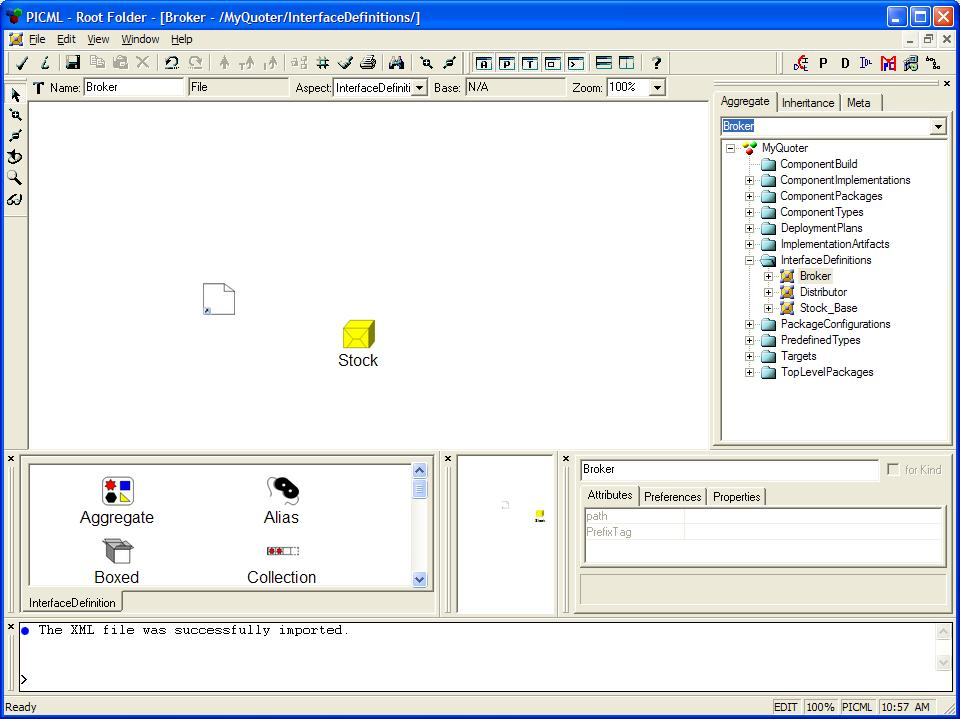
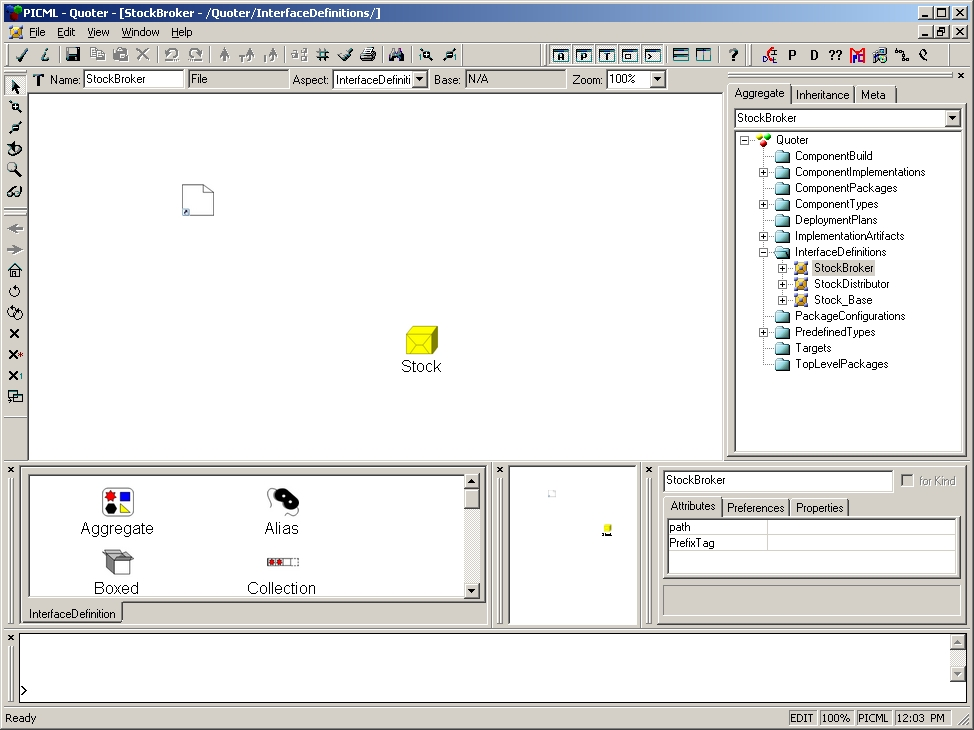
Thu Jun 18 06:48:05 UTC 2009  Marcel Smit  <msmit@remedy.nl>
* docs/tutorials/Quoter/Simple/03.html:

          Updated to meet the current status of CIAO/DAnCE.

        * docs/tutorials/Quoter/Simple/images/fig2.jpg:
        * docs/tutorials/Quoter/Simple/images/fig3.jpg:
        * docs/tutorials/Quoter/Simple/images/fig5.jpg:
        * docs/tutorials/Quoter/Simple/images/fig6.jpg:
        * docs/tutorials/Quoter/Simple/images/fig7.jpg:
        * docs/tutorials/Quoter/Simple/images/fig8.jpg:
        * docs/tutorials/Quoter/Simple/images/fig9.jpg:

          Updated to meet the current status of GME/COSMIC

diff --git a/modules/CIAO/docs/tutorials/Quoter/Simple/03.html b/modules/CIAO/docs/tutorials/Quoter/Simple/03.html
@@ -99,29 +99,29 @@ div.Section1 {
       .NET tools so that <i>idl_to_picml</i> works properly.<br>
       in my machine, VCVARS32.bat is in C:\Program Files\Microsoft Visual Studio .NET
       2003\Vc7\bin
-    <li style='COLOR:black;'> In the same command prompt, change directory to <code> <span style='FONT-SIZE:10pt'>MyQuoter\</span></code>, and type the
+    <li style='COLOR:black;'> In the same command prompt, change directory to <code> <span style='FONT-SIZE:10pt'>Quoter\</span></code>, and type the
       following command:<br>
-      &nbsp;&nbsp; &gt; <kbd> <span style='FONT-SIZE:10pt'> idl_to_picml -x MyQuoter -r .&nbsp;</span></kbd><br>
-      <em>idl_to_picml</em> will parse your IDL files and generated a <code> <span style='FONT-SIZE:10pt'>MyQuoter.xme</span></code> file in the <code> <span style='FONT-SIZE:10pt'>MyQuoter</span></code> directory. Note that if
+      &nbsp;&nbsp; &gt; <kbd> <span style='FONT-SIZE:10pt'> idl_to_picml -x Quoter -r .&nbsp;</span></kbd><br>
+      <em>idl_to_picml</em> will parse your IDL files and generated a <code> <span style='FONT-SIZE:10pt'>Quoter.xme</span></code> file in the <code> <span style='FONT-SIZE:10pt'>Quoter</span></code> directory. Note that if
       -x option is not used, the default xme file name will be <code> <span style='FONT-SIZE:10pt'>PICML_default_xme_file.xme.</span></code><br>
     <LI style="COLOR: black;    "> Start GME, select <strong>File-&gt;Import xml..</strong>, and choose the xme
       file just generated. You should be able to see an imported PICML model similar
       to the one shown in Figure 2. </LI>
   </ol>
-  <p align="center" style='TEXT-ALIGN:center'><span style='COLOR:black'><img border="0" width="960" height="719" id="_x0000_i1027" src="images/fig2.jpg"><br>
+  <p align="center" style='TEXT-ALIGN:center'><span style='COLOR:black'><img border="0" id="_x0000_i1027" src="images/fig2.jpg"><br>
     <br>
     Figure 2</span></p>
   <p><span style='COLOR:black'>&nbsp; In the Browser of the generated model, the <em>PredefinedTypes</em> folder contains a bunch of atomic datatype elements that will be referenced by
     other modeling parts later. You don't have to worry about them for now. The
     models in <em>InterfaceDefinitions</em> folder are the PICML representations
-    of the IDL files you just imported. Double-click to open <em>Broker</em>, it
+    of the IDL files you just imported. Double-click to open <em>StockBroker</em>, it
     will show you a white, document-like entity which represents a
     &lt;&lt;FileRef&gt;&gt; instance and a yellow box-shaped entity representing a
     &lt;&lt;Package&gt;&gt; instance. Their equivalent representations in IDL files
     are "#include" and "module" respectively. Figure 3 gives
     you a clear view of GME representation of all the 3 idl files created. We will
     cover the other folders in the next section.</span></p>
-  <p align="center" style='MARGIN-BOTTOM:12pt;TEXT-ALIGN:center'><span style='COLOR:black'><img border="0" width="218" height="364" id="_x0000_i1028" src="images/fig3.jpg"><br>
+  <p align="center" style='MARGIN-BOTTOM:12pt;TEXT-ALIGN:center'><span style='COLOR:black'><img border="1" id="_x0000_i1028" src="images/fig3.jpg"><br>
     <br>
     Figure 3</span></p>
   <p style='MARGIN-BOTTOM:12pt'><span style='COLOR:black'>Now
@@ -177,8 +177,8 @@ div.Section1 {
   <p><span style='COLOR:black'>This folder contains implementation artifacts
     associated with components. <em>idl_to_picml</em> has created these artifacts
     for us, with their dependency relationships correctly captured. Figure 4 shows
-    the Implementation Artifacts for <em>Broker</em>.</span></p>
-  <p align="center" style='MARGIN-BOTTOM:12pt;TEXT-ALIGN:center'><span style='COLOR:black'><img border="0" width="883" height="528" id="_x0000_i1031" src="images/fig4.jpg"><br>
+    the Implementation Artifacts for <em>StockBroker</em>.</span></p>
+  <p align="center" style='MARGIN-BOTTOM:12pt;TEXT-ALIGN:center'><span style='COLOR:black'><img border="0" id="_x0000_i1031" src="images/fig4.jpg"><br>
     Figure 4.</span></p>
   <div align="center" style='TEXT-ALIGN:center'><a name="1"></a><span style='COLOR:black'>
     <hr size="2" width="100%" align="center">
@@ -188,9 +188,9 @@ div.Section1 {
     of component interfaces. In the Quoter example, we will have two monolithic
     component implementations - named <em>StockDistributorImplementation</em> and <em>StockBrokerImplementation</em> - and an assembly component implementation named <em>StockQuoter</em>, which is
     an assembly of <em>StockDistributorImplementation</em> and <em>StockBrokerImplementaion</em>. <em>idl_to_picml</em> has created the monolithic component implementations for
-    us, as shown in figure 5 for example, but we have to specify the connections
-    between them in order to construct a Quoter system.</span></p>
-  <p align="center" style='TEXT-ALIGN:center'><span style='COLOR:black'><img border="0" width="894" height="617" id="_x0000_i1033" src="images/fig5.jpg"><br>
+    us, as shown in figure 5 for example, but we have to specify the connections between them in order to construct a Quoter system. Therefore we need to create the mentioned
+    StockQuoter component assemby</span></p>
+  <p align="center" style='TEXT-ALIGN:center'><span style='COLOR:black'><img border="0" id="_x0000_i1033" src="images/fig5.jpg"><br>
     Figure 5</span></p>
   <p><span style='COLOR:black'>Assembly components provide a boundary for the composition
     of monolithic components and even other assemblies. Assembly components do not
@@ -206,96 +206,101 @@ COLOR:black'>MonolithicImplementation</span></code><span style='COLOR:black'>.
     <li style='COLOR:black;'> Right click the <em>ComponentImplementations</em> folder, choose <strong>Insert
       Model-&gt;ComponentImplementationContainer</strong>, rename it as
       "StockQuoterImplementation" in the Attribute Panel. Double click to open it.
+    </li>
     <li style='COLOR:black;'> From the Part Browser, drag a &lt;&lt;ComponentAssembly&gt;&gt; to the modeling
       window, name it "StockQuoter". Double click to open it.
+    </li>
     <li style='COLOR:black;'> Now we will create two instances for interfaces <em>StockBroker</em> and <em>StockDistributor</em>.
       To do that, expand the folder <em> <span style="FONT-SIZE:10pt;
-     FONT-FAMILY:'Courier New'">InterfaceDefinitions</span></em>, then expand the <em> <span style="FONT-SIZE:10pt;FONT-FAMILY:'Courier New'">InterfaceDefinitions/</span></em> <em>Broker</em>, then <em> <span style="FONT-SIZE:10pt;FONT-FAMILY:'Courier New'">InterfaceDefinitions/</span></em> <em>Broker/ Stock</em> until the interface definition of <em>StockBroker</em> shows.
-      While expanding the tree, always keep the "StockQuoter"
-      &lt;&lt;ComponentAssembly&gt;&gt; window open. Then drag <code> <span style='FONT-SIZE:10pt'>MyQuoter/InterfaceDefinitions/Broker/Stock/StockBroker</span></code> in the browser to the "StockQuoter" &lt;&lt;ComponentAssembly&gt;&gt; window
-      while pressing ALT key. Repeat the same steps for <code> <span style='FONT-SIZE:10pt'>MyQuoter/InterfaceDefinitions/Distributor/Stock/StockDistributor</span></code>,
+     FONT-FAMILY:'Courier New'">InterfaceDefinitions</span></em>, then expand the
+     <em><span style="FONT-SIZE:10pt;FONT-FAMILY:'Courier New'">InterfaceDefinitions/StockBroker</span></em>, then
+     <em><span style="FONT-SIZE:10pt;FONT-FAMILY:'Courier New'">InterfaceDefinitions/StockBroker/Stock</span></em> until the interface definition of <em>StockBroker</em> shows.
+      While expanding the tree, always keep the "StockQuoter" &lt;&lt;ComponentAssembly&gt;&gt; window open.
+      Then drag <code> <span style='FONT-SIZE:10pt'>Quoter/InterfaceDefinitions/Broker/Stock/StockBroker</span></code> in the browser to the "StockQuoter" &lt;&lt;ComponentAssembly&gt;&gt; window
+      while pressing ALT key. Repeat the same steps for <code> <span style='FONT-SIZE:10pt'>Quoter/InterfaceDefinitions/Distributor/Stock/StockDistributor</span></code>,
       and you will see two instances of component interfaces have been created as
-      shown in Figure 6 (the black line in the figure only indicates .mapping)</li>
+      shown in Figure 6 (the black line in the figure only indicates .mapping)
+      </li>
   </ol>
-  <p align="center" style='TEXT-ALIGN:center'><span style='COLOR:black'><img border="0" width="1076" height="696" id="_x0000_i1034" src="images/fig6.jpg"><br>
+  <p align="center" style='TEXT-ALIGN:center'><span style='COLOR:black'><img border="0" id="_x0000_i1034" src="images/fig6.jpg"><br>
     <br>
     Figure 6</span></p>
   <ol start="4" type="1">
-    <li style='COLOR:black;'> Create an &lt;&lt;PublishConnector&gt;&gt;.
+    <li style='COLOR:black;'> Create an &lt;&lt;PublishConnector&gt;&gt; by dragging it from the "Part browser" onto the "StockQuoter" window.
+    </li>
     <li style='COLOR:black;'> Now assemble the components together according to <a href="images/fig1.jpg">Figure
-      1</a>(make sure you change to connect mode <img border="0" width="32" height="32" id="_x0000_i1035" src="Icons/AddConnMode.gif">)
-      and the resulting assembly model should look like Figure 7. Note that to create
-      connections between StockDistributor.notify_out and StockBroker.notify_in, you
-      will need the intermediate connector &lt;&lt;PublishConnector&gt;&gt;.</li>
+      1</a> (make sure you change to connect mode <img border="0" width="32" height="32" id="_x0000_i1035" src="Icons/AddConnMode.gif" />)
+      and the resulting assembly model should look like Figure 7. Note that to create connections between StockDistributor.notify_out and StockBroker.notify_in,
+      you will need the intermediate connector &lt;&lt;PublishConnector&gt;&gt;.
+    </li>
   </ol>
-  <p align="center" style='TEXT-ALIGN:center'><span style='COLOR:black'><img border="0" width="1076" height="445" id="_x0000_i1036" src="images/fig7.jpg">
-    <!-- hhmts end -->
-    &gt;<br>
-    <br>
+  <p align="center" style='TEXT-ALIGN:center'><span style='COLOR:black'>
+    <img border="0" id="_x0000_i1036" src="images/fig7.jpg" />
+    <br><br>
     Figure 7</span></p>
+
   <div align="center" style='TEXT-ALIGN:center'><span style='COLOR:black'>
     <hr size="2" width="100%" align="center">
     </span></div>
   <h3><a name="3"></a><span style='COLOR:black'>ComponentPackage</span></h3>
-  <p><span style='COLOR:black'>This folder contains deployable
-    component packages. Every instance in an assembly should have a corresponding
-    monolithic implementation and packaged in a ComponentPackagebe To create a
-    package for <em>StockBroker</em>.instance</span></p>
+  <p><span style='COLOR:black'>This folder contains deployable component packages. Every instance in an assembly should have a corresponding
+    monolithic implementation and packaged in a ComponentPackage. To create a package for <em>StockBroker</em>.instance</span></p>
   <ol start="1" type="1">
     <li style='COLOR:black;'> Right click folder <em>ComponentPackage</em>s , insert a
-      &lt;&lt;PackageContainer&gt;&gt;, name it "Broker"; Double click to open it.
+      &lt;&lt;PackageContainer&gt;&gt;, name it "Broker". Double click to open it.
     <li style='COLOR:black;'> From the PartBrowser, add the following:
       <ul type="circle">
         <li style='COLOR:black;'> a &lt;&lt;ComponentPackage&gt;&gt; named "Broker";
-        <li style='COLOR:black;'> a &lt;&lt;ComponentImplementationReference&gt;&gt; named "Broker";
-        <li style='COLOR:black;'> a &lt;&lt;ComponentRef&gt;&gt; named "Broker";</li>
+        <li style='COLOR:black;'> a &lt;&lt;ComponentImplementationReference&gt;&gt; named "ComponentImplBrokerRef";
+        <li style='COLOR:black;'> a &lt;&lt;ComponentRef&gt;&gt; named "ComponentBrokerRef";</li>
       </ul>
-    <li style='COLOR:black;'> Refer the &lt;&lt;ComponentImplementationReference&gt;&gt; <em>Broker</em> to <code> <span style='FONT-SIZE:10pt'>MyQuoter/ComponentImplementations/StockBroker</span></code>Implementation/StockBrokerMonolithicImpl.
-      Refer the &lt;&lt;ComponentRef&gt;&gt; <em>Broker</em> to <code> <span style='FONT-SIZE:10pt'>MyQuoter/InterfaceDefinitions/Broker/Stock/StockBroker</span></code>.
-      To create a reference in GME, simply drag the tree node in the Browser "into"
-      the reference model. For example, you should drag the tree node <code> <span style='FONT-SIZE:10pt'>MyQuoter/ComponentImplementations/StockBroker</span></code>Implementation/StockBrokerMonolithicImpl
-      into &lt;&lt;ComponentImplementationReference&gt;&gt; <em>Broker.</em> Check
-      GME manual(tutorials) for more information.
-    <li style='COLOR:black;'> Switch to Connect Mode and create two connections according to the following
-      relationship.
+    <li style='COLOR:black;'>Now we need to create references for "ComponentImplBrokerRef" and "ComponentBrokerRef".
+      To create a reference in GME, simply drag the tree node in the Browser "into" the reference model.<br/>
+      We need to refer &lt;&lt;ComponentImplementationReference&gt;&gt; "ComponentImplBrokerRef" to
+      <code><span style='FONT-SIZE:10pt'>Quoter/ComponentImplementations/StockBrokerImplementation/StockBrokerMonolithicImpl</span></code>
+      and &lt;&lt;ComponentRef&gt;&gt; "ComponentBrokerRef" to <code><span style='FONT-SIZE:10pt'>Quoter/InterfaceDefinitions/StockBroker/Stock/StockBroker</span></code>.<br/>
+      For example, you should drag the tree node <code><span style='FONT-SIZE:10pt'>Quoter/ComponentImplementations/StockBroker</span></code>Implementation/StockBrokerMonolithicImpl
+      into &lt;&lt;ComponentImplementationReference&gt;&gt; "ComponentImplBrokerRef".<br/> Check GME manual(tutorials) for more information.
+    <li style='COLOR:black;'> Switch to Connect Mode and create two connections according to the following relationship.
       <ul type="circle">
-        <li style='COLOR:black;'> &lt;&lt;ComponentImplementationReference&gt;&gt; <em>Broker</em> implements
-          &lt;&lt;ComponentPackage&gt;&gt; <em>Broker</em>;
-        <li style='COLOR:black;'> &lt;&lt;ComponentPackage&gt;&gt; <em>Broker</em> realizes
-          &lt;&lt;ComponentRef&gt;&gt; <em>Broker</em>.</li>
+        <li style='COLOR:black;'> &lt;&lt;ComponentImplementationReference&gt;&gt; "ComponentImplBrokerRef" implements
+          &lt;&lt;ComponentPackage&gt;&gt; "Broker"
+        </li>
+        <li style='COLOR:black;'> &lt;&lt;ComponentPackage&gt;&gt; "Broker" realizes
+          &lt;&lt;ComponentRef&gt;&gt; "ComponentBrokerRef".
+        </li>
       </ul>
+      <br/>
+      <br/>
+      The model you built should resemble Figure 8.
+      <br />
+      <br />
+      <p align="center" style='MARGIN-BOTTOM:12pt;MARGIN-LEFT:0.5in;TEXT-ALIGN:center;'><span style='COLOR:black'><img border="0" id="_x0000_i1038" src="images/fig8.jpg">
+        <br><br>
+        Figure 8</span>
+      </p>
+      <p>Now create a StockDistributor following the same steps.</p>
     </li>
+
+    <li style='LIST-STYLE-POSITION:outside;COLOR:black;'>
+      We will also need to create a component package for the assembly component StockQuoter. Remember assembly component is a virtual component, it does not "realize" a
+      certain interface, so different from the Broker and Distributor packages, the StockQuoter does not need a &lt;&lt;ComponentRef&gt;&gt;. To create this model:<br/>
+
+      <ol>
+        <li>Insert a &lt;&lt;ComponentPackage&gt;&gt; named "StockQuoter"
+        </li>
+        <li>Add a &lt;&lt;ComponentImplementationReference&gt;&gt; named "ComponentImplStockQuoterRef", refer it to
+          <code><span style='FONT-SIZE:10pt'>Quoter/ComponentImplementations/StockQuoterImplementation/StockQuoter</span></code>
+        </li>
+        <li>Switch to connect mode and connect &lt;&lt;ComponentImplementationReference&gt;&gt; "ComponentImplStockQuoterRef" with
+          &lt;&lt;ComponentPackage&gt;&gt; "StockQuoter", as in Figure 9.
+          <p align="center" style='MARGIN-BOTTOM:12pt;TEXT-ALIGN:center'><span style='COLOR:black'><img border="0" id="_x0000_i1039" src="images/fig9.jpg">
+            <br><br>
+            Figure 9</span>
+          </p>
+        </li>
+      </ol>
   </ol>
-  <p style='MARGIN-BOTTOM:12pt;MARGIN-LEFT:0.5in;'><span style='COLOR:black'><br>
-    <br>
-    &nbsp;&nbsp;&nbsp;&nbsp; The model you built should resemble Figure 8.</span></p>
-  <p align="center" style='MARGIN-BOTTOM:12pt;MARGIN-LEFT:0.5in;TEXT-ALIGN:center;'><span style='COLOR:black'><img border="0" width="1076" height="445" id="_x0000_i1038" src="images/fig8.jpg">
-    <!-- hhmts start -->
-    &gt;<br>
-    <br>
-    Figure 8</span></p>
-  <p style='MARGIN-LEFT:0.5in;'><span style='COLOR:black'>Now create a
-    ComponentPackage/StockDistributor following the same steps. </span></p>
-  <ol start="5" type="1">
-    <li style='LIST-STYLE-POSITION:outside;COLOR:black;'> <br>
-      We will also need to create a package for the assembly component StockQuoter.
-      Remember assembly component is a virtual component, it does not "realize" a
-      certain interface, so different from the Broker and Distributor packages, the
-      StockQuoter does not need a &lt;&lt;ComponentRef&gt;&gt;. To create this model: </li>
-  </ol>
-  <p style='MARGIN-LEFT:0.5in;TEXT-INDENT:-0.25in;'><span style="FONT-SIZE:10pt;COLOR:black;FONT-FAMILY:'Courier New';'Courier New';">1.<span style="FONT:7pt 'Times New Roman'">&nbsp;&nbsp;&nbsp; </span> </span><span style='COLOR:black'>Insert a &lt;&lt;ComponentPackage&gt;&gt; named
-    "StockQuoter"</span></p>
-  <p style='MARGIN-LEFT:1in;TEXT-INDENT:-0.25in;'><span style="FONT-SIZE:10pt;COLOR:black;FONT-FAMILY:'Courier New';'Courier New';">2.<span style="FONT:7pt 'Times New Roman'">&nbsp;&nbsp;&nbsp; </span> </span><span style='COLOR:black'>Add a &lt;&lt;ComponentImplementationReference&gt;&gt;
-    named "StockQuoter", refer it to MyQuoter</span><code><span style='FONT-SIZE:10pt;COLOR:black'>/ComponentImplementations/StockQuoter/StockQuoter</span></code><span style='COLOR:black'> </span></p>
-  <p style='MARGIN-LEFT:1in;TEXT-INDENT:-0.25in;'><span style="FONT-SIZE:10pt;COLOR:black;FONT-FAMILY:'Courier New';'Courier New';">3.<span style="FONT:7pt 'Times New Roman'">&nbsp;&nbsp;&nbsp; </span> </span><span style='COLOR:black'>Switch to connect mode and connect
-    &lt;&lt;ComponentImplementationReference&gt;&gt; StockQuoter with
-    &lt;&lt;ComponentPackage&gt;&gt; StockQuoter, as in Figure 9.</span></p>
-  <p align="center" style='MARGIN-BOTTOM:12pt;TEXT-ALIGN:center'><span style='COLOR:black'><img border="0" width="1076" height="445" id="_x0000_i1039" src="images/fig9.jpg">
-    <!-- Created: Sat Nov 27 15:25:06 CST 1999 -->
-    <!-- hhmts start -->
-    &gt;<br>
-    <br>
-    Figure 9</span></p>
   <div align="center" style='TEXT-ALIGN:center'><span style='COLOR:black'>
     <hr size="2" width="100%" align="center">
     </span></div>
@@ -304,14 +309,14 @@ COLOR:black'>MonolithicImplementation</span></code><span style='COLOR:black'>.
     model capturing specific configuration of Component packages.</span></p>
   <ol start="1" type="1">
     <li style='COLOR:black;'> In the folder <em>PackageConfiguratio</em>n, and create a
-      &lt;&lt;PackageConfigurationContainer&gt;&gt;, name it "Default", click to open
+      &lt;&lt;PackageConfigurationContainer&gt;&gt;, name it "Default", double click to open
       it.
     <li style='COLOR:black;'> Add a &lt;&lt;PackageConfiguration&gt;&gt; named "default" and a
       &lt;&lt;ComponentPackageReference&gt;&gt;, name it "StockQuoter", connect
       "Default" to "StockQuoter"
     <li style='COLOR:black;'> Refer &lt;&lt;ComponentPackageReference&gt;&gt; StockQuoter to
-      &lt;&lt;ComponentPackage&gt;&gt; <code> <span style='FONT-SIZE:10pt'>MyQuoter/ComponentPackage/StockQuoter/StockQuoter</span></code><span style="FONT-SIZE:10pt;FONT-FAMILY:'Courier New'"><br>
-      <code>(Not &lt;&lt;ComponentImplementationReference&gt;&gt;</code></span> <code> <span style='FONT-SIZE:10pt'>MyQuoter/ComponentPackage/StockQuoter/StockQuoter!)&nbsp;</span></code></li>
+      &lt;&lt;ComponentPackage&gt;&gt; <code> <span style='FONT-SIZE:10pt'>Quoter/ComponentPackage/StockQuoter/StockQuoter</span></code><span style="FONT-SIZE:10pt;FONT-FAMILY:'Courier New'"><br>
+      <code>(Not &lt;&lt;ComponentImplementationReference&gt;&gt;</code></span> <code> <span style='FONT-SIZE:10pt'>Quoter/ComponentPackage/StockQuoter/ComponentImplStockQuoterRef!)&nbsp;</span></code></li>
   </ol>
   <div align="center" style='TEXT-ALIGN:center'><span style='COLOR:black'>
     <hr size="2" width="100%" align="center">
@@ -321,13 +326,13 @@ COLOR:black'>MonolithicImplementation</span></code><span style='COLOR:black'>.
     capturing information about the top-level element that will be fed to the
     application.</span></p>
   <ol start="1" type="1">
-    <li style='COLOR:black;'> In the folder <em>ToplevelPackage</em>, and create a
-      &lt;&lt;ToplevelPackageContainer&gt;&gt;, name it "Default", double click to
+    <li style='COLOR:black;'> In the folder <em>ToplevelPackages</em>, create a
+      &lt;&lt;ToplevelPackageContainer&gt;&gt; and name it "Default". Double click to
       open it.
     <li style='COLOR:black;'> Add a &lt;&lt;ToplevelPackage&gt;&gt; named "ToplevelPackage" and a
       &lt;&lt;PackageConfigurationReference&gt;&gt;, name it "Default", connect
       "ToplevelPackage" to "Default"
-    <li style='COLOR:black;'> Refer "Default" to My<code><span style='FONT-SIZE:10pt'>Quoter/PackageConfiguration/Default/Default</span></code></li>
+    <li style='COLOR:black;'> Refer "Default" to <code><span style='FONT-SIZE:10pt'>Quoter/PackageConfiguration/Default/Default</span></code></li>
   </ol>
   <div align="center" style='TEXT-ALIGN:center'><span style='COLOR:black'>
     <hr size="2" width="100%" align="center">
@@ -341,7 +346,7 @@ COLOR:black'>MonolithicImplementation</span></code><span style='COLOR:black'>.
   <ol start="1" type="1">
     <li style='COLOR:black;'> In the folder <i>Targets</i>, insert a new &lt;&lt;Domain&gt;&gt; named
       "Domain"; double click to open it.
-    <li style='COLOR:black;'> From the Part Browser, add two &lt;&lt;Node&gt;&gt; named "Broker" and
+    <li style='COLOR:black;'> From the Part Browser, add two &lt;&lt;Node&gt;&gt;s, named "Broker" and
       "Distributor" respectively.</li>
   </ol>
   <p><span style='COLOR:black'><br>
@@ -354,21 +359,21 @@ COLOR:black'>MonolithicImplementation</span></code><span style='COLOR:black'>.
     that captures information about the assignment of component to nodes.</span></p>
   <ol start="1" type="1">
     <li style='COLOR:black;'> In the folder <em>DeploymentPlan</em>, insert a model
-      &lt;&lt;DeploymentPlan&gt;&gt;; name it "Plan", click to open it
+      &lt;&lt;DeploymentPlan&gt;&gt;; name it "Plan". Double click to open it.
     <li style='COLOR:black;'> From the PartBrowser, add the following:
       <ul type="circle">
-        <li style='COLOR:black;'> Two &lt;&lt;CollocationGroup&gt;&gt;
         <li style='COLOR:black;'> Two &lt;&lt;NodeReference&gt;&gt; named "Node_Broker" and "Node_Distributor"
-          respectively, refering to <code> <span style='FONT-SIZE:10pt'>MyQuoter/Targets/Domain/Broker</span></code> and <code> <span style='FONT-SIZE:10pt'>MyQuoter/Targets/Domain/Distributor</span></code> respectively
+          respectively, refering to <code> <span style='FONT-SIZE:10pt'>Quoter/Targets/Domain/Broker</span></code> and
+          <code><span style='FONT-SIZE:10pt'>Quoter/Targets/Domain/Distributor</span></code> respectively.<br/>
+          A &lt;&lt;CollationGroup&gt;&gt;, named "DefaultGroup", is added automatically when adding a &lt;&lt;NodeReference&gt;&gt;.
+        </li>
         <li style='COLOR:black;'> Two &lt;&lt;ComponentRef&gt;&gt; named "StockBroker" and "StockDistributor"
-          respectively, refering to <code> <span style='FONT-SIZE:10pt'>MyQuoter/ComponentImplementations/StockQuoterImplementation/StockQuoter/StockBroker</span></code> and <code> <span style='FONT-SIZE:10pt'>MyQuoter/ComponentImplementations/StockQuoterImplementation/StockQuoter/StockDistributor</span></code> respectively. Note that the &lt;&lt;ComponentRef&gt;&gt; in DeploymentPlan is
-          not referring to the interface, but rather the actual instance of the
-          implementation.</li>
+          respectively, refering to <code> <span style='FONT-SIZE:10pt'>Quoter/ComponentImplementations/StockQuoterImplementation/StockQuoter/StockBroker</span></code>
+          and <code><span style='FONT-SIZE:10pt'>Quoter/ComponentImplementations/StockQuoterImplementation/StockQuoter/StockDistributor</span></code> respectively.<br/>
+          Note that the &lt;&lt;ComponentRef&gt;&gt; in DeploymentPlan is not referring to the interface, but rather the actual instance of the implementation.
+        </li>
       </ul>
-    <li style='MARGIN-BOTTOM:12pt;COLOR:black;'> Switch to Connect Mode, connect one &lt;&lt;CollocationGroup&gt;&gt; to
-      &lt;&lt;NodeReference&gt;&gt; <em>Node_Broker</em>, connect another
-      &lt;&lt;CollocationGroup&gt;&gt; to &lt;&lt;NodeReference&gt;&gt; <em>Node_Distributor</em>.
-      Now the model looks like the following.</li>
+    <p>The model should look like this:</p>
   </ol>
   <p align="center" style='MARGIN-BOTTOM:12pt;MARGIN-LEFT:0.5in;TEXT-ALIGN:center;'><span style='COLOR:black'><img border="0" width="1076" height="530" id="_x0000_i1044" src="images/fig10.jpg"><br>
     <br>
@@ -412,8 +417,8 @@ COLOR:black'>MonolithicImplementation</span></code><span style='COLOR:black'>.
   <p><span style='COLOR:black'>After we are done with the modeling, the
     Deploymentplan interpreter that comes along with PICML will help us
     to generate a Plan.cdp file. Please make sure you generate
-    this file to MyQuoter/descriptors. Note that to get the example working</span><span style="COLOR:black; FONT-FAMILY:'Courier New'">,</span><span style='COLOR:black'>a
-    Node Map file (NodeMap.dat) in MyQuoter/descriptors should be created to map logical nodes to NodeManager object
+    this file to Quoter/descriptors. Note that to get the example working</span><span style="COLOR:black; FONT-FAMILY:'Courier New'">,</span><span style='COLOR:black'>a
+    Node Map file (NodeMap.dat) in Quoter/descriptors should be created to map logical nodes to NodeManager object
     references,e.g:</span></p>
   <pre wrap=""><span style='COLOR:black'>DistributorNode corbaloc:iiop:localhost:30000/NodeManager</span></pre>
   <pre><span
